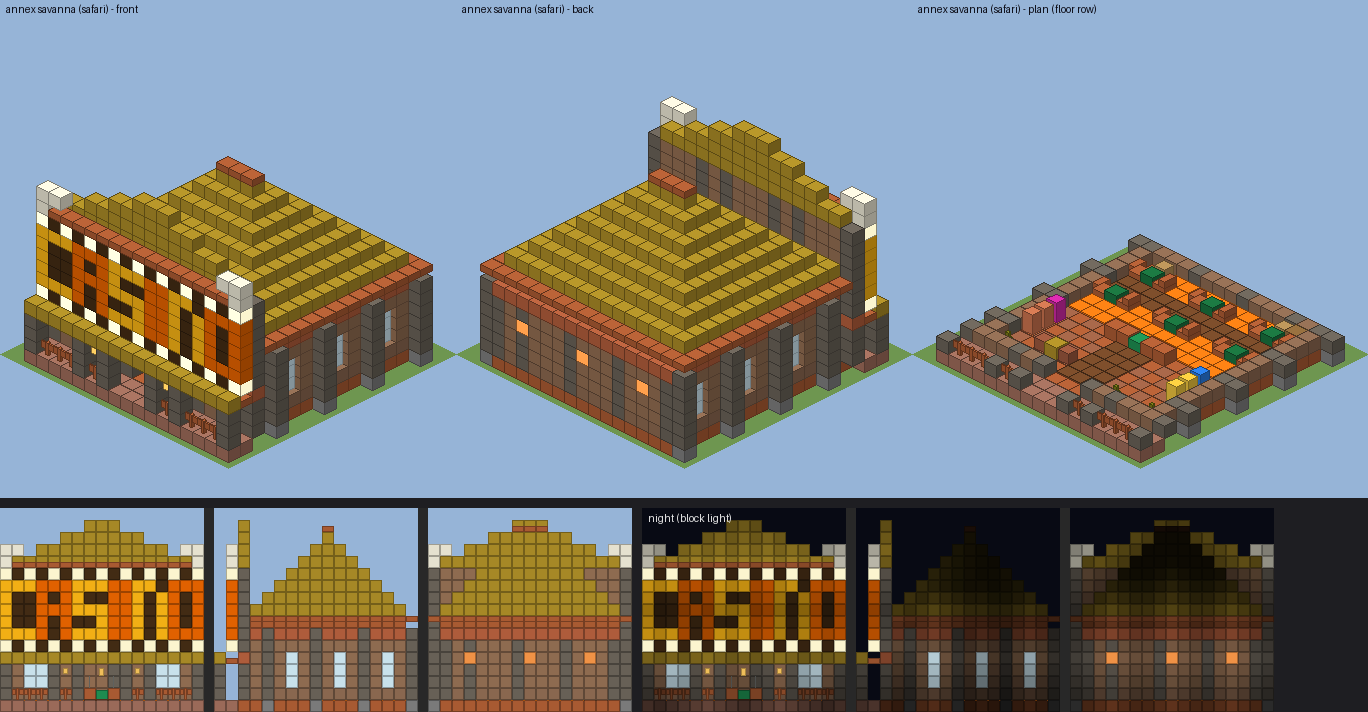
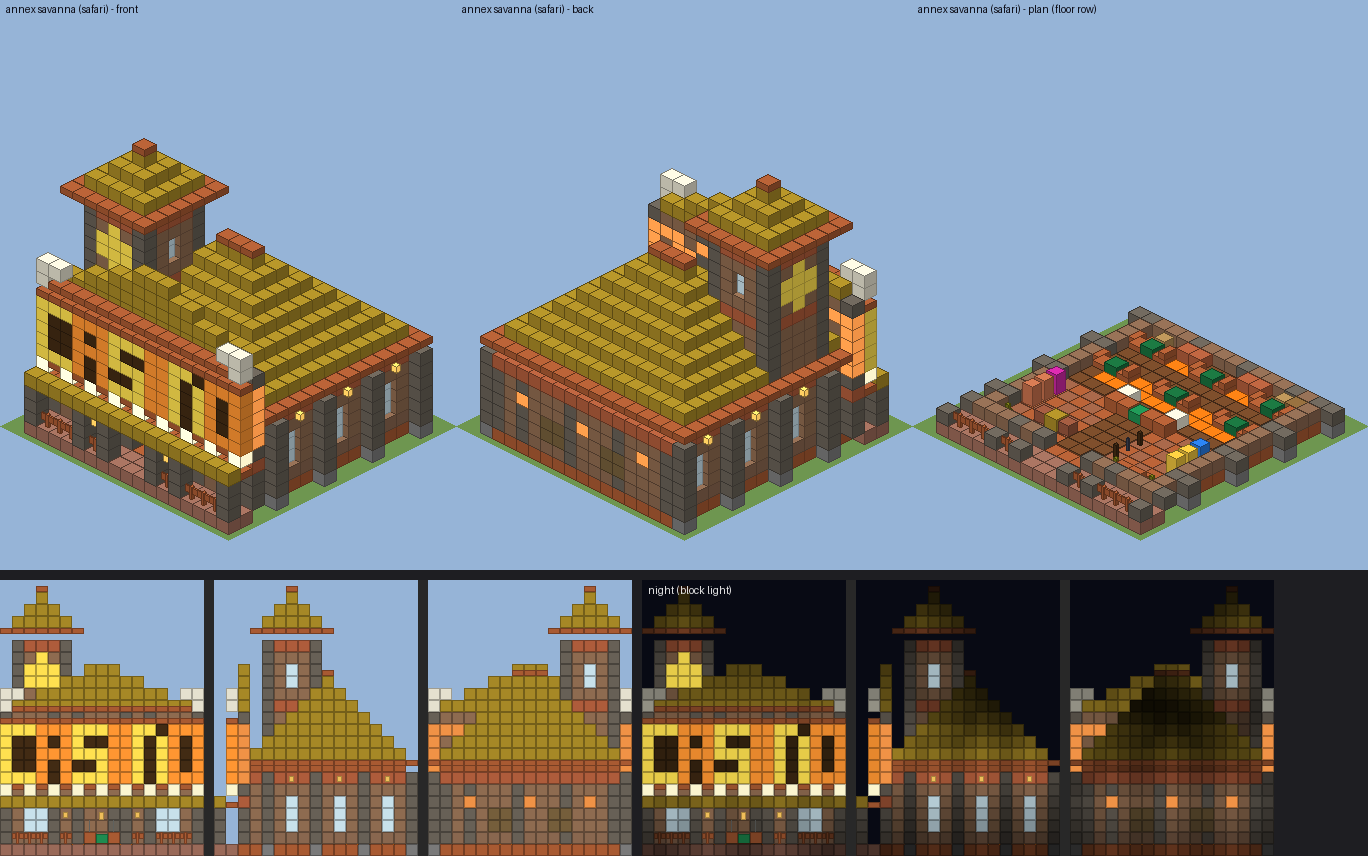
CB-3: illuminated stained-glass marquee, landmark tower with lit emblem, eave lanterns, richer annex interior
Claude-Session: https://claude.ai/code/session_015WvuDVRYv5QSzyNo1FbWK1

diff --git a/java/src/main/java/dev/nezo/burmaldaholic/worldgen/logic/pieces/VillageAnnex.java b/java/src/main/java/dev/nezo/burmaldaholic/worldgen/logic/pieces/VillageAnnex.java
@@ -47,7 +47,9 @@ public final class VillageAnnex {
 	private VillageAnnex() {}
 
 	public static final int SX = 17;
-	public static final int SY = 17;
+	public static final int SY = 23;
+	/** Top row of the hall roof and the facade crown (the tower rises above it to SY - 1). */
+	public static final int HALL_TOP = 16;
 	public static final int SZ = 17;
 	/** Floor row (first air row above the floor blocks). */
 	public static final int Y = 1;
@@ -91,6 +93,12 @@ public final class VillageAnnex {
 
 		// floor: carpeted gaming hall, chequered lobby floor, accent runner door → cashier
 		b.fill(WEST + 1, Y, 1, EAST - 1, Y, 7, Role.CARPET);
+		for (int x = WEST + 1; x <= EAST - 1; x++) { // accent border round the gaming hall
+			b.set(x, Y, 1, Role.CARPET_ACCENT);
+			b.set(x, Y, 7, Role.CARPET_ACCENT);
+		}
+		b.fill(WEST + 1, Y, 1, WEST + 1, Y, 7, Role.CARPET_ACCENT);
+		b.fill(EAST - 1, Y, 1, EAST - 1, Y, 7, Role.CARPET_ACCENT);
 		b.fill(WEST + 1, Y, 3, EAST - 1, Y, 4, Role.CARPET_ACCENT);
 		for (int x = WEST + 1; x <= EAST - 1; x++) {
 			for (int z = 8; z <= FRONT - 1; z++) {
@@ -102,11 +110,11 @@ public final class VillageAnnex {
 		b.fill(7, Y, 9, 9, Y, FRONT - 1, Role.CARPET_ACCENT);
 
 		// roof with eaves over the posts, then the facade
-		Roofs.roof(b, style.roof(), 0, 0, SX - 1, FRONT, CEILING, SY - 1);
+		Roofs.roof(b, style.roof(), 0, 0, SX - 1, FRONT, CEILING, HALL_TOP);
 		if (style.roof() == RoofKind.HIP) {
 			// front cross gable meeting the facade's half-timbered gable, and a lit cupola on the ridge
-			Roofs.gable(b, 4, 9, 12, FRONT, 12, SY - 1, false, Role.ROOF, Role.ROOF, Role.WALL);
-			Roofs.cupola(b, 8, 7, 14, SY - 1);
+			Roofs.gable(b, 4, 9, 12, FRONT, 12, HALL_TOP, false, Role.ROOF, Role.ROOF, Role.WALL);
+			Roofs.cupola(b, 8, 7, 14, HALL_TOP);
 		}
 		if (style.roof() == RoofKind.STEEP_GABLE) {
 			// back gable end: collar beam, king post and a pair of windows
@@ -117,7 +125,13 @@ public final class VillageAnnex {
 					"north", "false", "south", "false", "waterlogged", "false"));
 			}
 		}
-		Facades.front(b, style.facade(), new Facades.Front(0, SX - 1, FRONT, 0, 8, 3, 3, 5, SY - 1, 2, "CASINO"));
+		tower(b, style);
+		// lanterns hanging under the eaves between the side posts (night glow along the walls)
+		for (int z = 2; z <= FRONT - 2; z += 4) {
+			b.set(0, CEILING - 1, z, HANGING_LANTERN);
+			b.set(SX - 1, CEILING - 1, z, HANGING_LANTERN);
+		}
+		Facades.front(b, style.facade(), new Facades.Front(0, SX - 1, FRONT, 0, 8, 3, 3, 5, HALL_TOP, 2, "CASINO"));
 
 		// ---- games ----
 		pod(b, Game.BLACKJACK, 3, 2, Facing.SOUTH, null);
@@ -138,6 +152,26 @@ public final class VillageAnnex {
 		}
 		b.set(EAST - 1, Y, 1, BlockSpec.mc("barrel", "facing", "up", "open", "false"));
 		b.chest(CasinoLoot.Table.VILLAGE_CASINO, WEST + 1, Y, 1, Facing.SOUTH);
+		// back bars between the dealer stations: counter, bottles (brewing stands) and plants, shelves in the wall
+		for (int[] bar : new int[][] {{5, 6}, {11, 10}}) {
+			b.set(bar[0], Y, 1, Role.COUNTER);
+			b.set(bar[1], Y, 1, Role.COUNTER);
+			b.set(bar[0], Y + 1, 1, BlockSpec.mc("brewing_stand", "has_bottle_0", "true", "has_bottle_1", "true", "has_bottle_2", "false"));
+			b.set(bar[1], Y + 1, 1, Role.PLANTER);
+			for (int x : bar) {
+				b.fill(x, Y + 1, 0, x, Y + 2, 0, BlockSpec.mc("bookshelf"));
+			}
+		}
+		// columns framing the cashier, rope barrier along the runner, a sofa by the door
+		for (int x : new int[] {6, 10}) {
+			b.fill(x, Y, 7, x, CEILING - 1, 7, Role.ACCENT);
+		}
+		b.set(10, Y, 10, Facades.post("minecraft:dark_oak_fence"));
+		b.set(10, Y, 11, BlockSpec.mc("iron_chain", "axis", "z", "waterlogged", "false"));
+		b.set(10, Y, 12, Facades.post("minecraft:dark_oak_fence"));
+		for (int x : new int[] {12, 13}) {
+			b.set(x, Y, FRONT - 1, style.palette().get(Role.STOOL).stairs(Facing.SOUTH, false));
+		}
 
 		// ---- lights: chandeliers over the tables, ceiling lights over the lobby ----
 		for (int x : new int[] {3, 8, 13}) {
@@ -161,6 +195,47 @@ public final class VillageAnnex {
 		b.keepClear(7, Y, 9, 9, Y + 2, SZ - 1); // door throat → cashier
 		b.jigsaw(8, 0, SZ - 1, Facing.SOUTH, "minecraft:street", "minecraft:street", "minecraft:empty", style.palette().block(Role.PATH));
 		return b.build();
+	}
+
+	static final BlockSpec HANGING_LANTERN = BlockSpec.mc("lantern", "hanging", "true", "waterlogged", "false");
+
+	/**
+	 * Landmark tower over the front-left corner of the hall (x 1..5, z 8..12, rising from the ceiling to row 17)
+	 * with the style's roof on top (rows 18..SY-1): lit windows, a glowing diamond emblem facing the street and
+	 * the west, so the casino reads from across the village day and night.
+	 */
+	static void tower(Blueprint b, Style style) {
+		int x0 = 1, x1 = 5, z0 = 8, z1 = 12, y0 = CEILING + 1, y1 = 17;
+		b.clear(x0, y0, z0, x1, y1, z1);
+		for (int y = y0; y <= y1; y++) {
+			for (int x = x0; x <= x1; x++) {
+				for (int z = z0; z <= z1; z++) {
+					boolean edgeX = x == x0 || x == x1, edgeZ = z == z0 || z == z1;
+					if (edgeX && edgeZ) {
+						b.set(x, y, z, Role.FRAME);
+					} else if (edgeX || edgeZ) {
+						b.set(x, y, z, y == 12 || y == y1 ? Role.BEAM : Role.WALL);
+					}
+				}
+			}
+		}
+		BlockSpec pane = BlockSpec.of(style.palette().get(Role.PANE).full(), "east", "true", "west", "true", "north", "false", "south",
+			"false", "waterlogged", "false");
+		BlockSpec paneZ = BlockSpec.of(style.palette().get(Role.PANE).full(), "east", "false", "west", "false", "north", "true", "south",
+			"true", "waterlogged", "false");
+		b.fill(3, 14, z0, 3, 15, z0, pane);
+		b.fill(x1, 14, 10, x1, 15, 10, paneZ);
+		b.set(3, 14, 10, Role.LIGHT);
+		// glowing diamond emblems (stained glass lit from behind) on the street side and the west side
+		BlockSpec glass = Facades.glassOf(style.palette().block(Role.NEON_A));
+		int[][] diamond = {{0, 16}, {-1, 15}, {0, 15}, {1, 15}, {-1, 14}, {0, 14}, {1, 14}, {0, 13}};
+		for (int[] d : diamond) {
+			b.set(3 + d[0], d[1], z1, glass);
+			b.set(3 + d[0], d[1], z1 - 1, Role.LIGHT);
+			b.set(x0, d[1], 10 + d[0], glass);
+			b.set(x0 + 1, d[1], 10 + d[0], Role.LIGHT);
+		}
+		Roofs.roof(b, style.roof(), x0 - 1, z0 - 1, x1 + 1, z1 + 1, y1 + 1, SY - 1);
 	}
 
 	/**

diff --git a/java/src/main/java/dev/nezo/burmaldaholic/worldgen/logic/blueprint/Facades.java b/java/src/main/java/dev/nezo/burmaldaholic/worldgen/logic/blueprint/Facades.java
@@ -156,6 +156,41 @@ public final class Facades {
 		return new SignBox(Math.min(start, start + s * (w - 1)), Math.max(start, start + s * (w - 1)), bottomY, bottomY + 6);
 	}
 
+	/** Stained glass of the same colour as a {@code *_concrete} block (other blocks are returned unchanged). */
+	public static BlockSpec glassOf(BlockSpec b) {
+		return b.name().endsWith("_concrete") ? BlockSpec.of(b.name().replace("_concrete", "_stained_glass")) : b;
+	}
+
+	/**
+	 * Illuminated sign (glows day and night): letters of stained glass in the NEON_A / NEON_B colours, each backed
+	 * by a LIGHT block in the cell behind it (towards the wall), on a SIGN_BACK board. 7 rows from {@code bottomY}:
+	 * a bulb strip (BULB every second cell between ROOF_TRIM top slabs), 5 lit text rows, a ROOF_TRIM slab cap.
+	 * With {@code pad > 0} the end columns are a TRIM frame. The cell behind the board must be inside the template.
+	 */
+	public static SignBox litSign(Blueprint b, String word, Facing side, int center, int bottomY, int plane, Lettering l, int pad) {
+		Layouts.Sign sign = text(word, l);
+		int w = sign.width() + 2 * pad;
+		int s = step(side);
+		int start = center - s * ((w - 1) / 2);
+		int behind = plane - (side == Facing.SOUTH || side == Facing.EAST ? 1 : -1);
+		Material trim = b.palette().get(Role.ROOF_TRIM);
+		for (int i = 0; i < w; i++) {
+			int a = start + s * i;
+			put(b, side, plane, a, bottomY, i % 2 == 0 ? b.palette().block(Role.BULB) : trim.slab("top"));
+			put(b, side, plane, a, bottomY + 6, trim.slab("bottom"));
+			for (int y = bottomY + 1; y <= bottomY + 5; y++) {
+				put(b, side, plane, a, y, pad > 0 && (i == 0 || i == w - 1) ? Role.TRIM : Role.SIGN_BACK);
+			}
+		}
+		for (Layouts.SignPixel px : sign.pixels()) {
+			int a = start + s * (pad + px.col());
+			int y = bottomY + 5 - px.row();
+			put(b, side, plane, a, y, glassOf(b.palette().block(px.letter() % 2 == 0 ? Role.NEON_A : Role.NEON_B)));
+			put(b, side, behind, a, y, Role.LIGHT);
+		}
+		return new SignBox(Math.min(start, start + s * (w - 1)), Math.max(start, start + s * (w - 1)), bottomY, bottomY + 6);
+	}
+
 	/** Marquee with the default look: tight letters, one cell of padding, bulbs all round. */
 	public static SignBox marquee(Blueprint b, String word, Facing side, int center, int bottomY, int plane) {
 		return marquee(b, word, side, center, bottomY, plane, Lettering.TIGHT, 1, true);
@@ -413,15 +448,7 @@ public final class Facades {
 		if (hasI && (avail - tw - 2 * pad) % 2 == 1 && tw + 1 + 2 * pad <= avail) {
 			l = Lettering.WIDE_I; // odd leftover: a two-column I keeps the board centred
 		}
-		SignBox box = marquee(b, f.word(), Facing.SOUTH, f.centerX(), f.signBottomY(), f.signPlane(), l, pad, sideFrame && pad > 0);
-		if (f.porch() > 0 && f.signTopY() + 1 <= f.topY()) {
-			// the board is a box: a ROOF_TRIM slab cap on top of it
-			Material trim = b.palette().get(Role.ROOF_TRIM);
-			for (int x = box.alongFrom(); x <= box.alongTo(); x++) {
-				b.set(x, f.signTopY() + 1, f.signPlane(), trim.slab("bottom"));
-			}
-		}
-		return box;
+		return litSign(b, f.word(), Facing.SOUTH, f.centerX(), f.signBottomY(), f.signPlane(), l, pad);
 	}
 
 	/** Half-width of a 45° crown triangle with its apex at ({@code centerX}, {@code topY}) at row {@code y}. */

diff --git a/java/src/test/java/dev/nezo/burmaldaholic/worldgen/logic/pieces/VillageAnnexTest.java b/java/src/test/java/dev/nezo/burmaldaholic/worldgen/logic/pieces/VillageAnnexTest.java
@@ -46,7 +46,7 @@ class VillageAnnexTest {
 			assertEquals("casino/annex/" + v.id(), p.id());
 			assertEquals(CasinoKind.VILLAGE_CASINO, p.layout().kind());
 			Vec s = p.layout().size();
-			assertTrue(s.x() <= 17 && s.z() <= 17 && s.y() <= 17, p.id() + " too big: " + s);
+			assertTrue(s.x() <= 17 && s.z() <= 17 && s.y() <= 23, p.id() + " too big: " + s);
 			assertTrue(Checks.families(List.of(p)).containsAll(Game.Family.REQUIRED), p.id() + " misses a game: "
 				+ Checks.families(List.of(p)));
 		}
